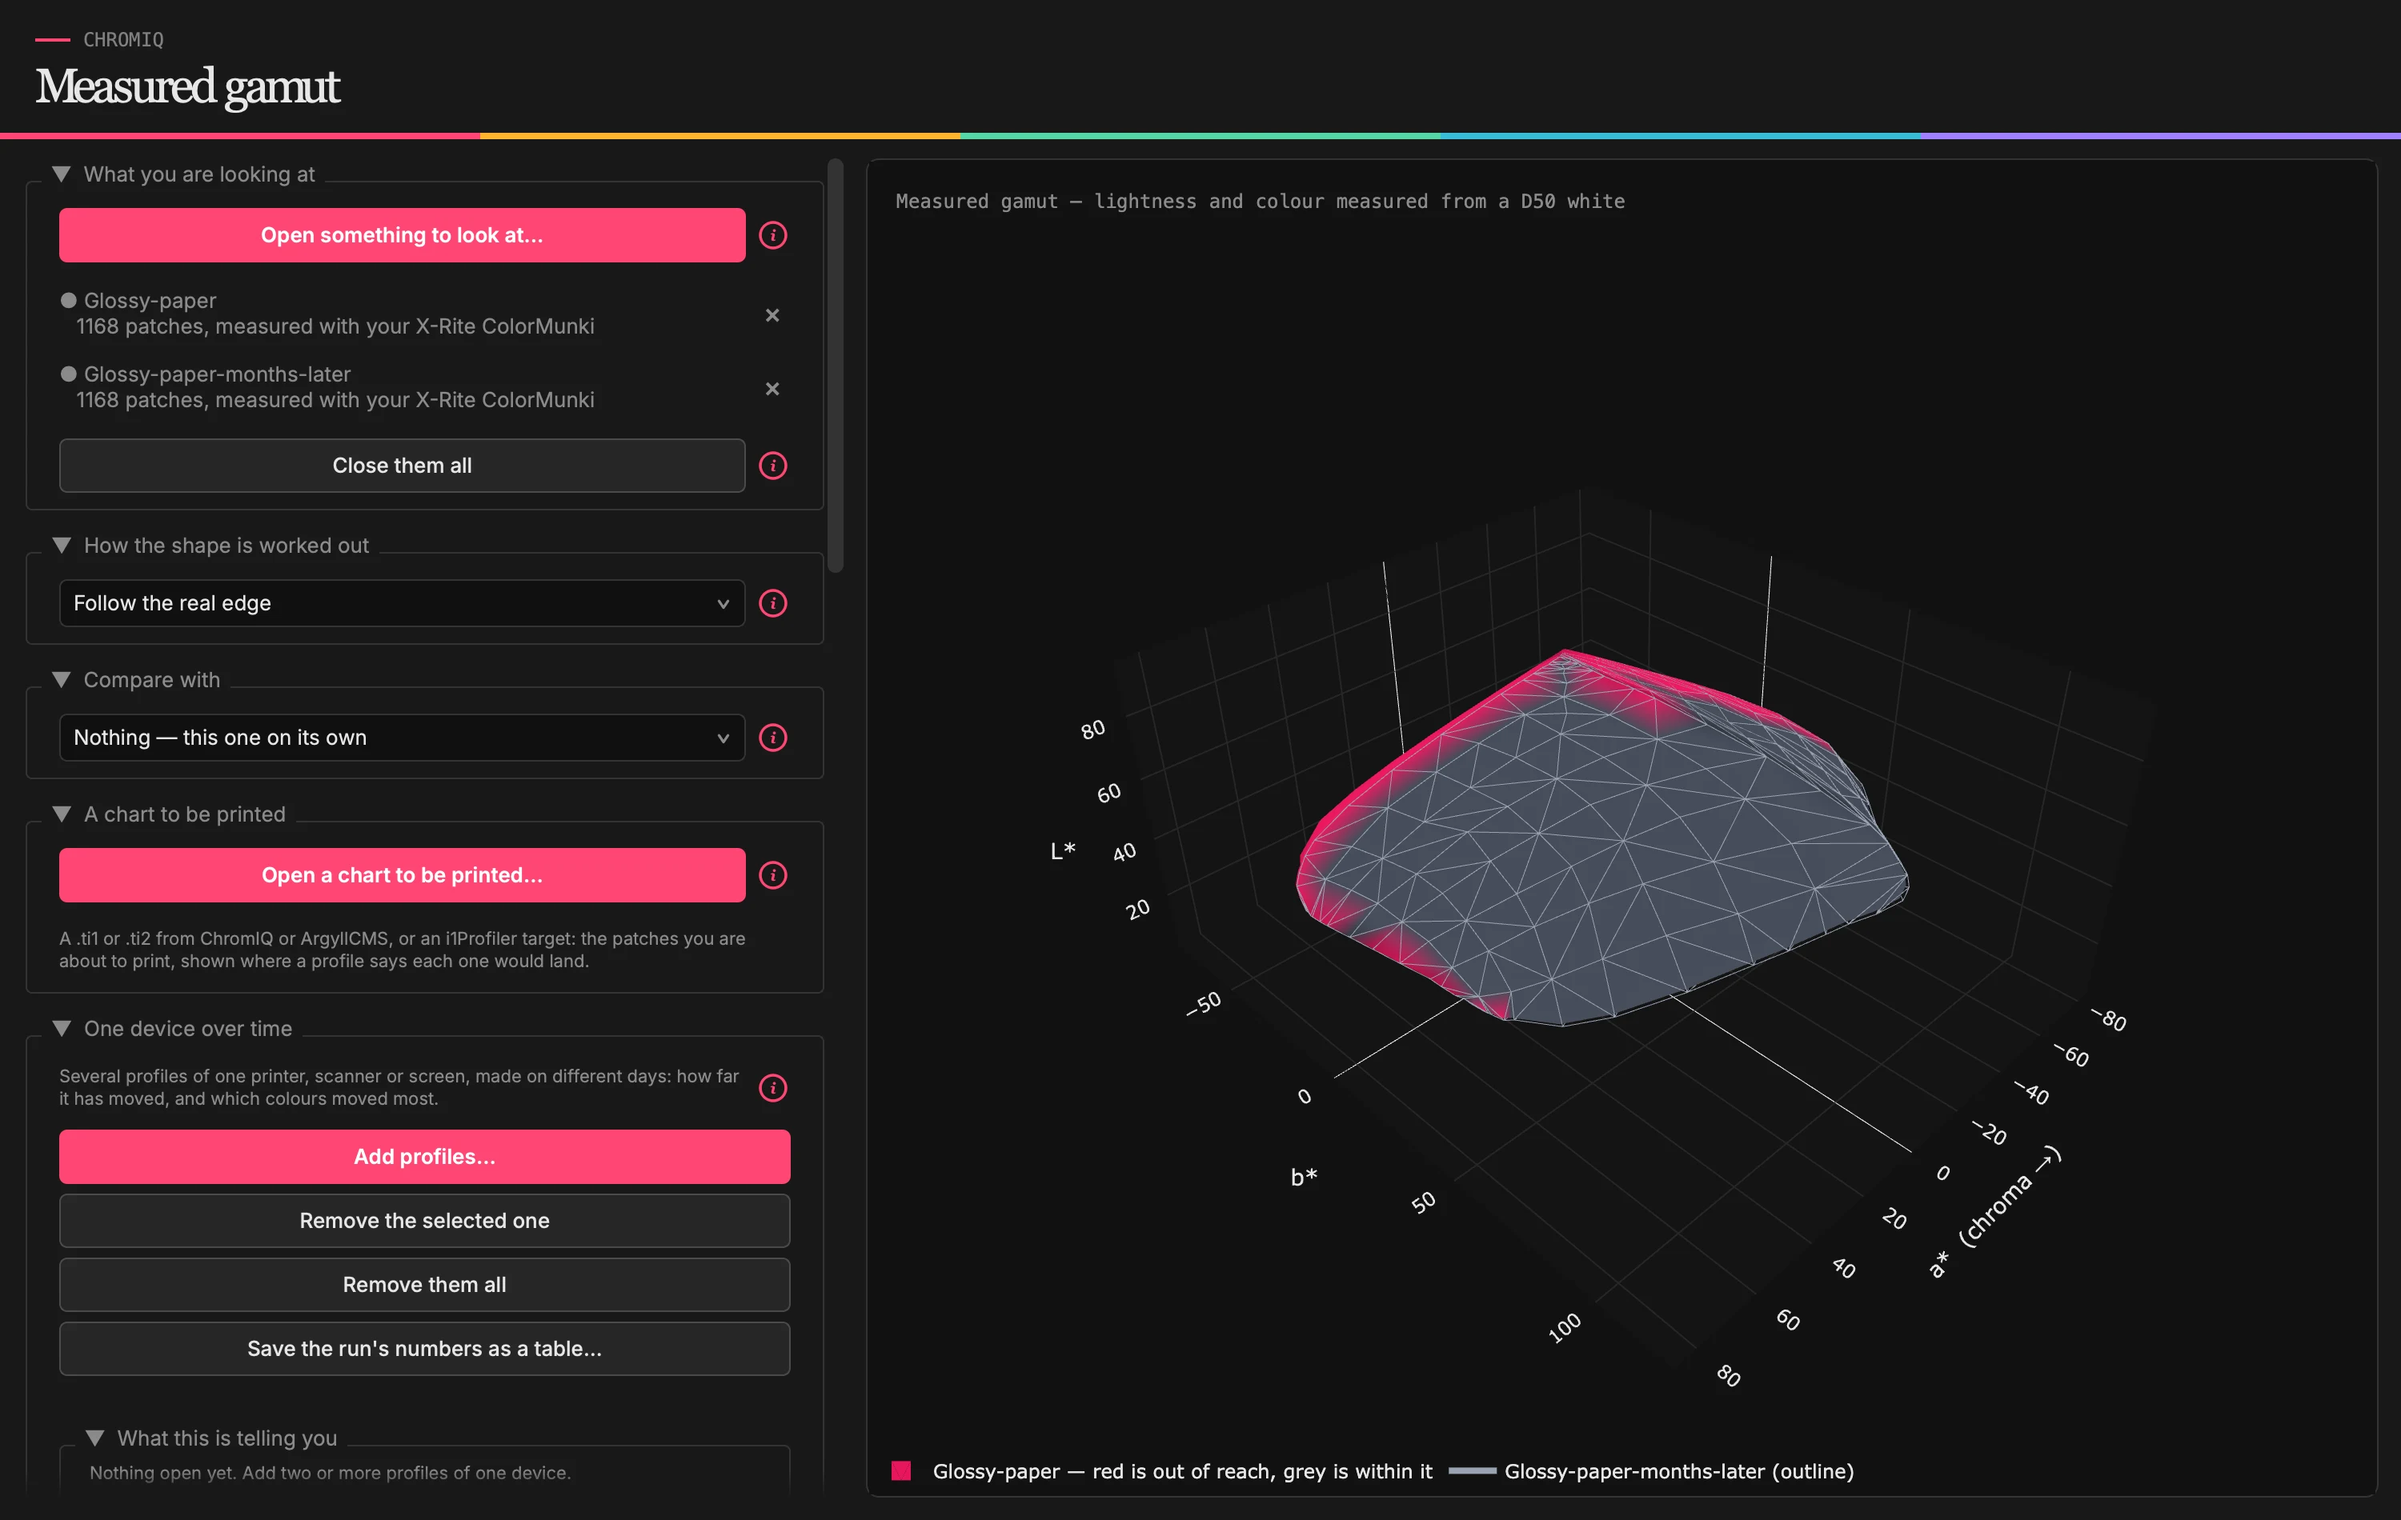
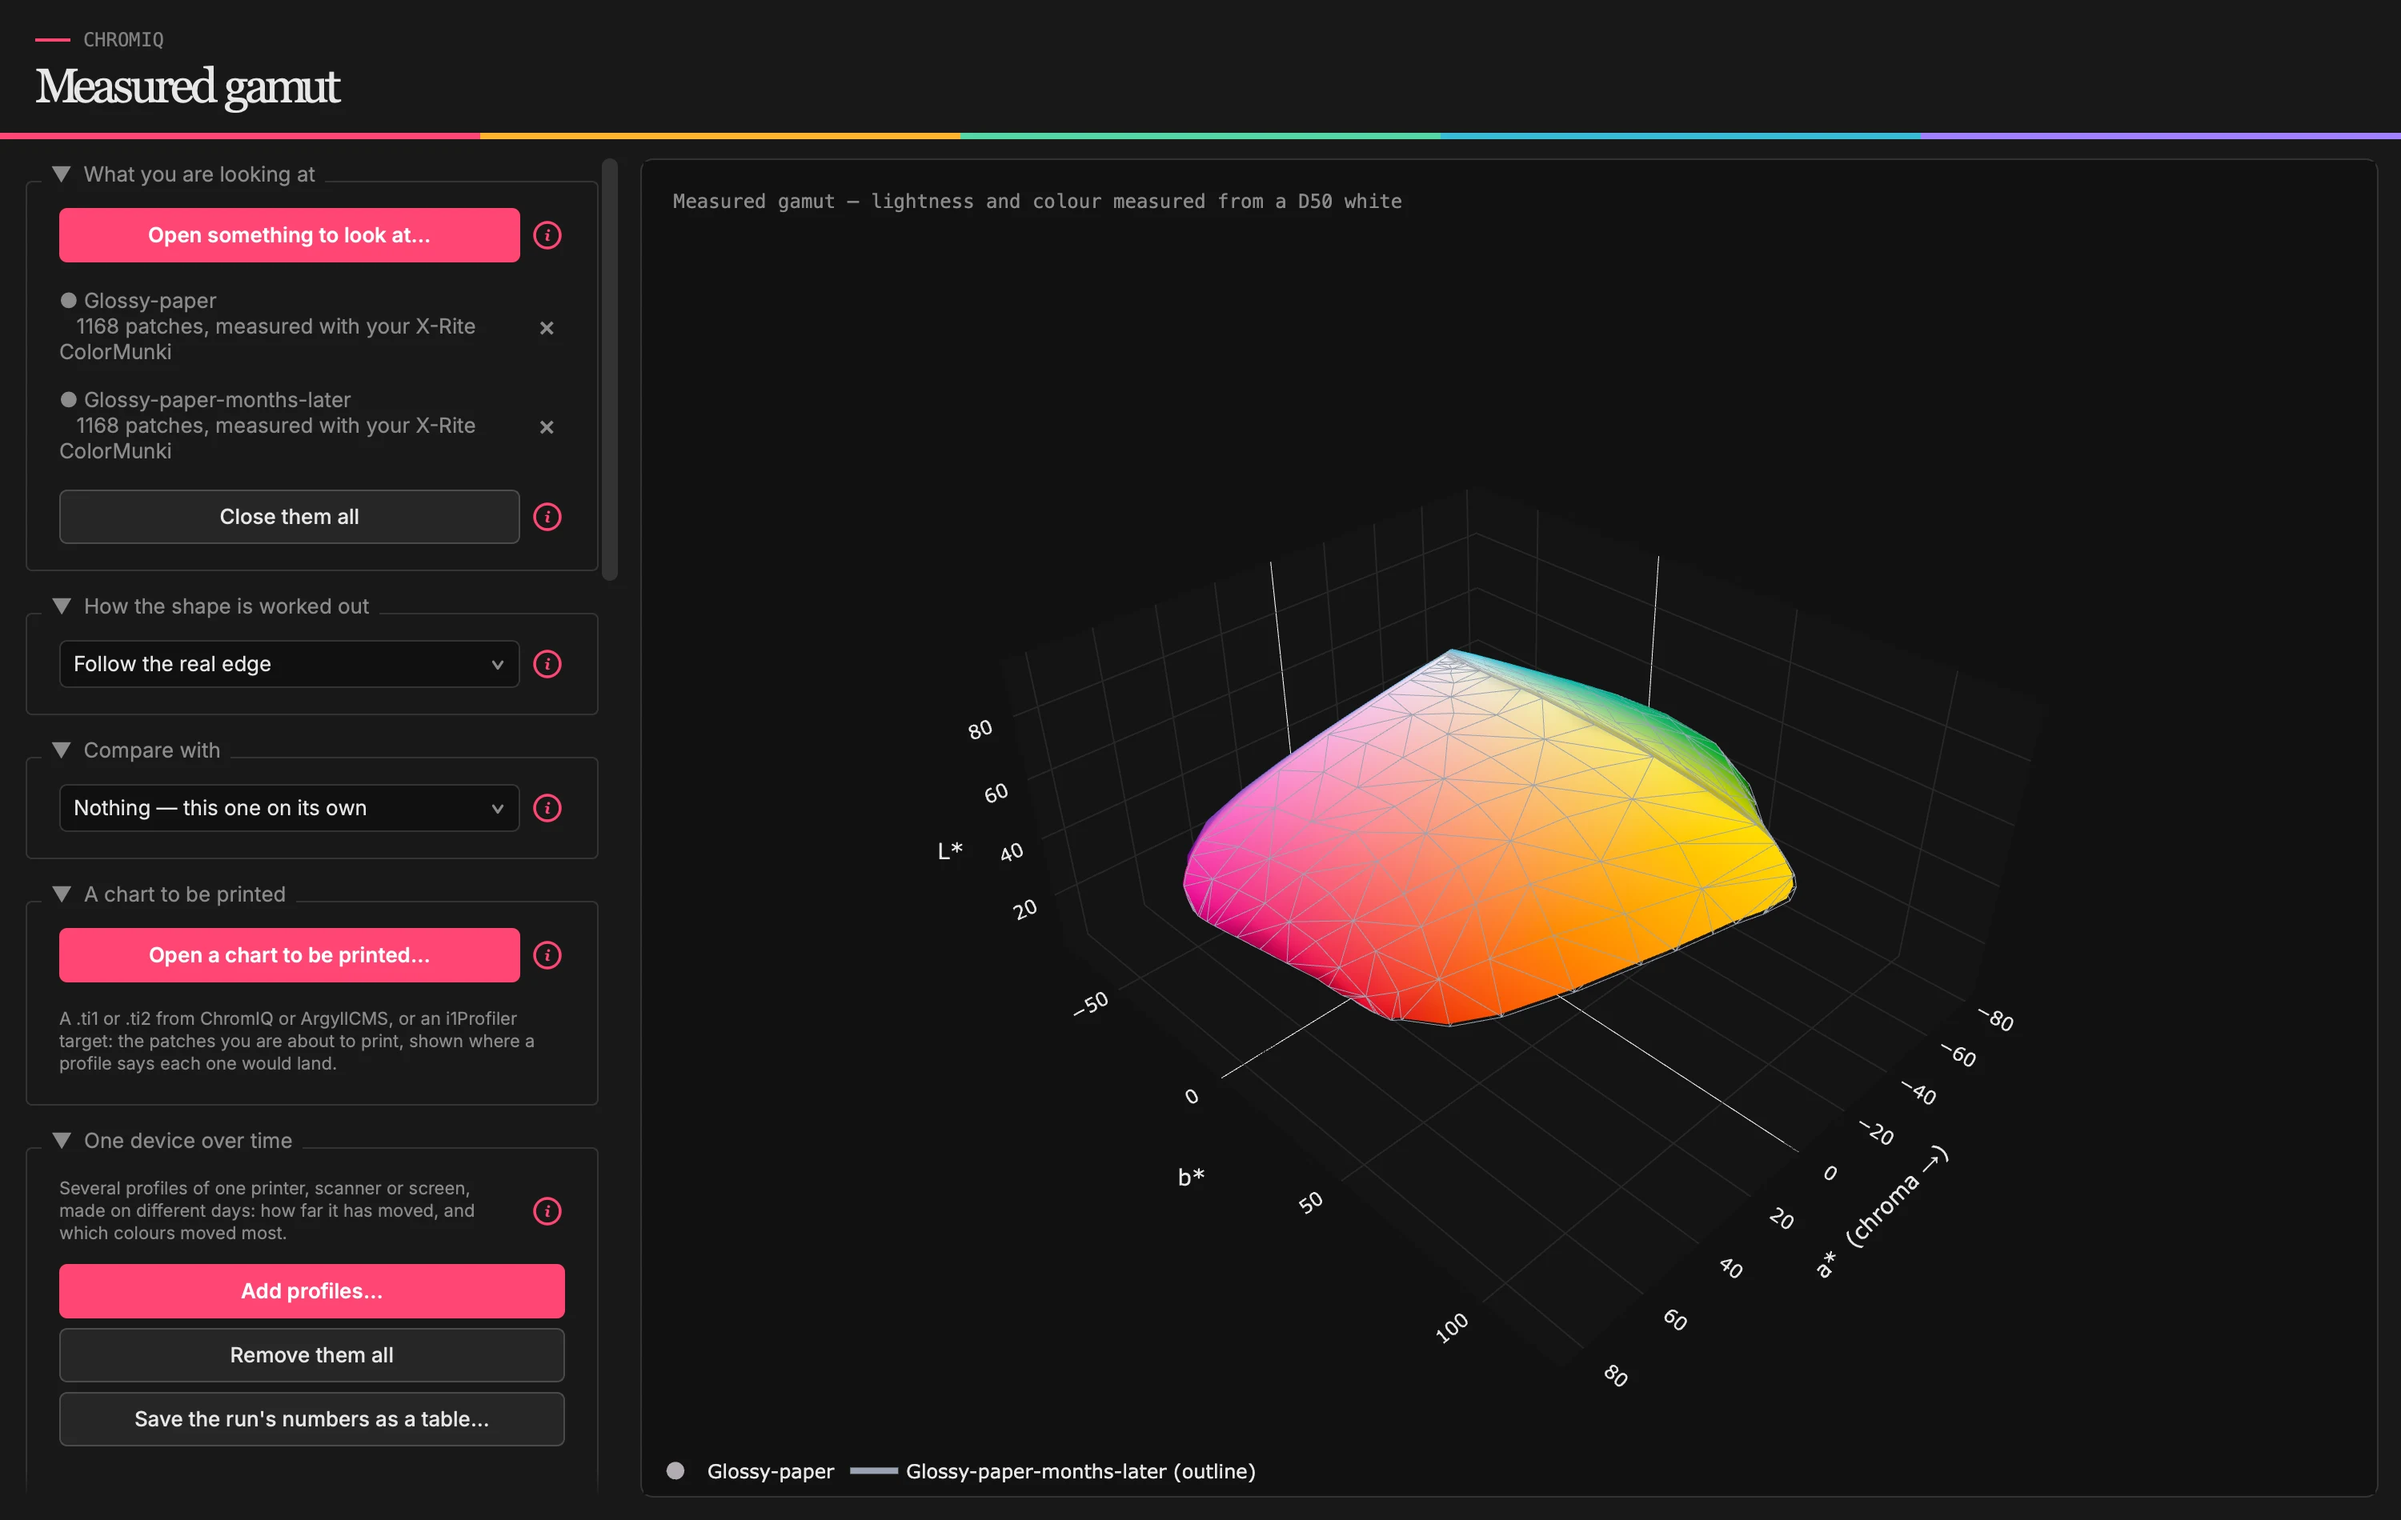
Every README picture had inherited the last one's settings
The screenshot script says, in a comment, "a fresh window each time, and its
settings cleared with it". It never cleared them. The store is a throwaway
one, but it lives for the whole run, so every choice a scene made was
inherited by every scene after it.

IT HID FOR AS LONG AS THE TWO APPEARANCES DIFFERED BY A PIXEL. Scene 09
switches to light and the window remembers that, so scenes 12 onwards were all
photographed in LIGHT -- every "the same paper drawn in CIELUV / XYZ" picture
in the README, in the wrong appearance, for as long as they have existed.

It surfaced now because the appearances finally lay out identically (c247627):
12's CIELAB shot came out BYTE-IDENTICAL to 09's, and this script's own rule
-- two pictures of two different things cannot be one image -- caught it.

So the settings are cleared before each scene, and every picture is remade
from a known state. 19 changed.

TWO SCENES THEN FAILED HONESTLY, and both were the check doing its job:

  12-space-cielab is the same as 01 BY CONSTRUCTION, because CIELAB is the
  space the window opens in. Declared by name in SAME_ON_PURPOSE with the
  reason, so a NEW collision still fails.

  19-ink-amounts-outside asserts the out-of-reach row is something a reader
  could reach. Measured in that state, every condition the window checks was
  already true -- chart drawable, two shapes judging, patches placed -- and
  the row still answered isVisible() = False, even after an explicit refresh,
[…]

diff --git a/scripts/make_screenshots.py b/scripts/make_screenshots.py
@@ -367,10 +367,35 @@ def ink_amounts_outside(w):
     patches come out beyond what that paper can reach.
     """
     ink_amounts(w)
-    w._chart_profile = PROFILE
-    w._fill_chart_profiles()
-    w._place_chart()
+    # CHOSEN THE WAY A READER CHOOSES IT, through the "Placed through" box,
+    # rather than by setting the attribute behind it and calling the placer.
+    # The window does more than place the patches when that box changes -- it
+    # decides again which controls can do anything, and the out-of-reach row
+    # is one of them. Reaching past the control left the row hidden and this
+    # scene failing its own assertion, which is the assertion doing its job:
+    # a switch the reader could not have found was never the thing under test.
+    w._load(PROFILE)
     pump(3.0)
+    w._fill_chart_profiles()
+    for i in range(w._chart_through.count()):
+        if w._chart_through.itemData(i) == str(PROFILE):
+            w._chart_through.setCurrentIndex(i)
+            break
+    w._on_chart_profile()
+    pump(3.0)
+    # AND THE SECTION IS OPENED, because "How the patches are drawn" starts
+    # folded and a folded section's contents are not visible at all -- which
+    # is exactly what this scene's assertion was reporting. Every condition
+    # the window checks was already true: the chart is drawable, two shapes
+    # are judging it, the patches are placed. Measured in that state, and the
+    # row still answered isVisible() = False, even after an explicit refresh,
+    # because its whole section was put away.
+    #
+    # A reader wanting to see this marking clicks that heading. So does this.
+    if not getattr(w._chart_look_box, "_fold_open", True):
+        w._chart_look_box._fold_open = True
+        w._chart_look_box._refold()
+    pump(1.5)
     assert w._chart_placed is not None, "the chart was not placed by the profile"
     assert w._chart_outside_row.isVisible(), (
         "the out-of-reach row is still hidden, so its switch is not something "
@@ -579,6 +604,14 @@ def split_into_families(w):
 
 
 #: file name → (how to set it up, how big the window is for it)
+#: Pictures that are the same as another ON PURPOSE, with the reason.
+#: Anything not named here that comes out identical to another picture is a
+#: fault -- two illustrations of two different things cannot be one image.
+SAME_ON_PURPOSE = {
+    # CIELAB is the space the window opens in.
+    "12-space-cielab.webp": "01-one-chart.webp",
+}
+
 SHOTS = {
     "01-one-chart.webp": (one_chart, (WIDE, TALL)),
     "02-vs-srgb.webp": (vs_srgb, (WIDE, TALL)),
@@ -632,11 +665,21 @@ def main() -> int:
 
     for name in wanted:
         setup, (wide, tall) = SHOTS[name]
-        # A FRESH WINDOW EACH TIME, and its settings cleared with it. These
-        # controls are remembered between runs on purpose, so a shot set up
-        # after another one would inherit whatever that one switched on -- and
-        # the picture would be right on a clean machine and wrong on the
-        # machine that makes them.
+        # A FRESH WINDOW EACH TIME, AND ITS SETTINGS CLEARED WITH IT -- which
+        # this said it did and did not do. The store is a throwaway one (see
+        # prefs.use_a_scratch_store above), but it lives for the whole run, so
+        # every choice a scene made was inherited by every scene after it.
+        #
+        # IT WENT UNNOTICED FOR AS LONG AS THE THEMES DIFFERED BY A PIXEL.
+        # Scene 09 switches to light and the appearance is remembered, so
+        # scenes 12 onwards were all photographed in light -- and 12's CIELAB
+        # shot came out BYTE-IDENTICAL to 09's, caught by this script's own
+        # rule that two pictures of two different things cannot be the same
+        # image. It only became identical once the two appearances started
+        # laying out identically, which is a fix; the leak underneath it was
+        # always there, and every space picture in the README has been in the
+        # wrong appearance.
+        prefs.store().clear()
         window = gamut_app.GamutApp([])
         window.resize(wide, tall)
         window.show()
@@ -675,6 +718,14 @@ def main() -> int:
         fingerprint = bytes(image.toImage().constBits().asarray(
             image.toImage().sizeInBytes()))
         clash = seen.get(fingerprint)
+        if clash and SAME_ON_PURPOSE.get(name) == clash:
+            # DECLARED, WITH THE REASON. CIELAB is the space the window opens
+            # in, so "the same paper drawn in CIELAB" IS the opening picture --
+            # the row in the README shows one shape on three sets of axes, and
+            # the first of the three is the default by definition. The rule
+            # keeps its teeth everywhere else; this pair is named, so a NEW
+            # collision still fails.
+            clash = None
         if clash:
             print(f"  [ FAIL ] {name}: identical to {clash}")
             failures.append(f"{name}: the same picture as {clash}")
